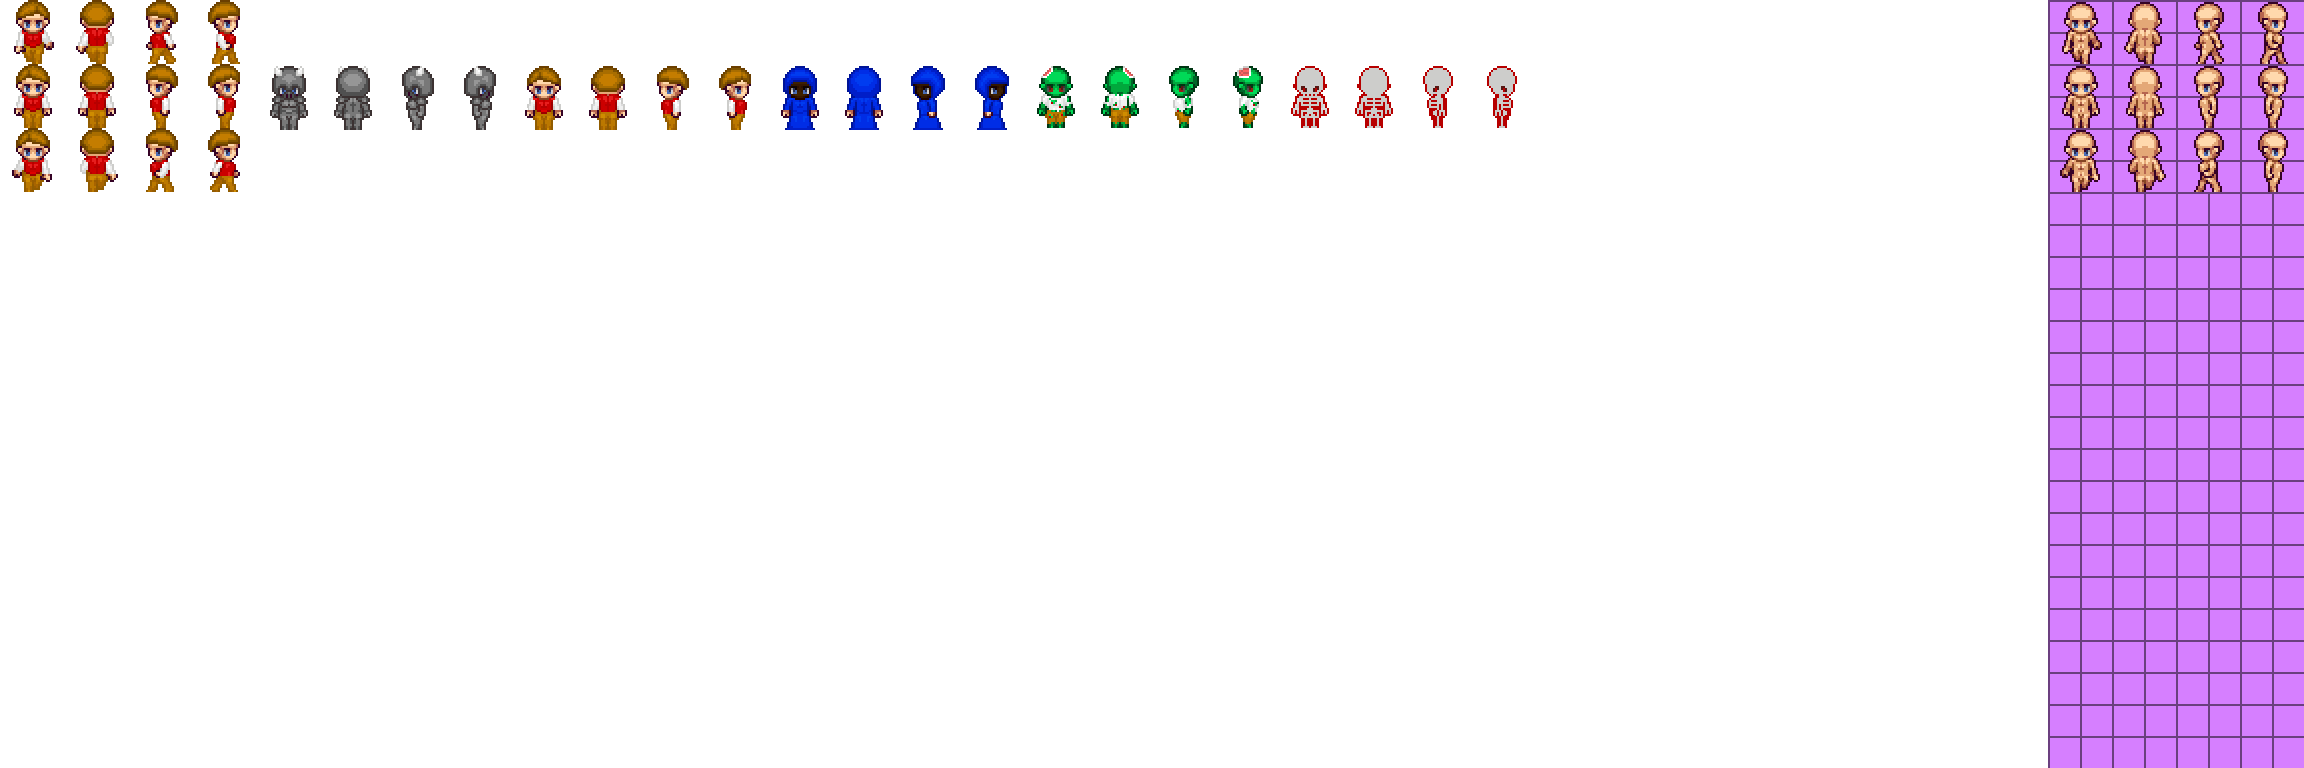
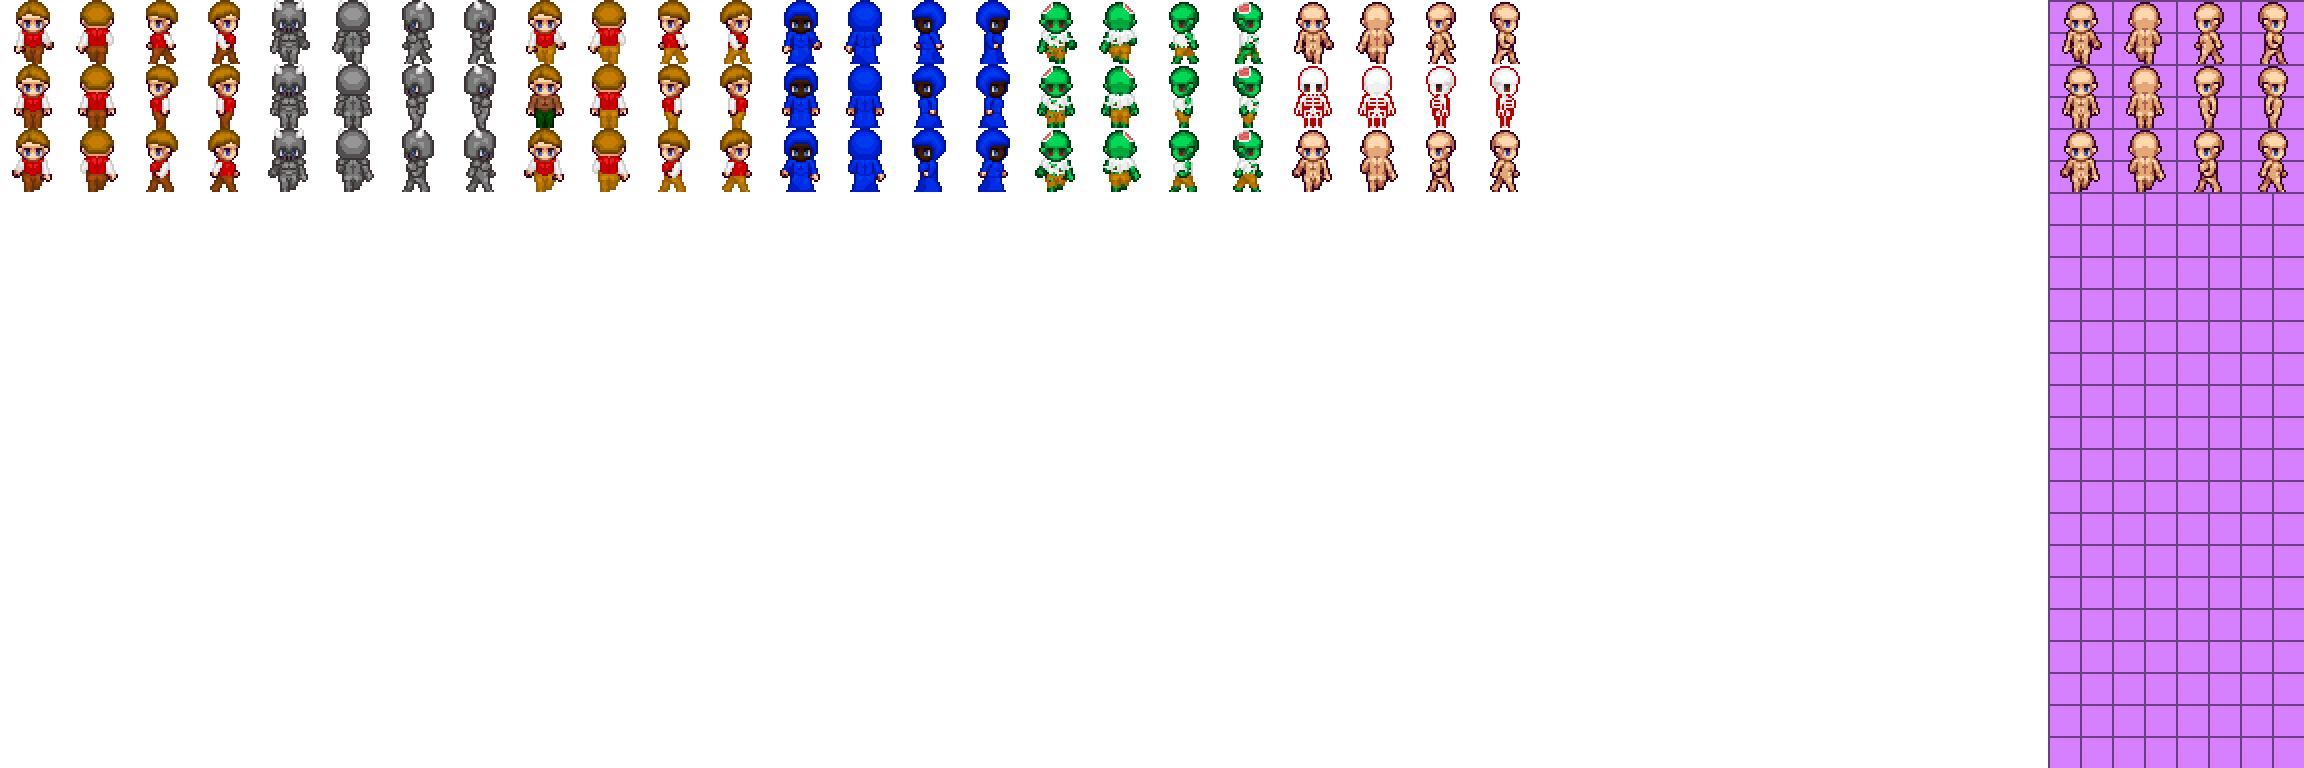
NPC walking animations working

Changed region(s): [[0.0, 0.0, 0.6562, 0.25], [0.0, 0.125, 0.0625, 0.1562], [0.9688, 0.2188, 1.0, 0.25]]

diff --git a/SDL_Setup/Physics.cpp b/SDL_Setup/Physics.cpp
@@ -314,7 +314,9 @@ void movement(Gamestate& gamestate)
 		//test for boundary collisions; only update position if no boundary collision with said update
 		double
 			nextX = gamestate.vector_entities.at(i)->posX + gamestate.vector_entities.at(i)->velX,
-			nextY = gamestate.vector_entities.at(i)->posY + gamestate.vector_entities.at(i)->velY;
+			nextY = gamestate.vector_entities.at(i)->posY + gamestate.vector_entities.at(i)->velY,
+			movedX = 0,
+			movedY = 0;
 
 		vector<bool> bad = goodNextPosition(gamestate, nextX, nextY, gamestate.vector_entities.at(i));
 		enum { x, y };
@@ -322,10 +324,12 @@ void movement(Gamestate& gamestate)
 		//update positions
 		if( !bad.at(x) )
 		{
+			movedX = nextX - gamestate.vector_entities.at(i)->posX;
 			gamestate.vector_entities.at(i)->posX = nextX;
 		}
 		if( !bad.at(y) )
 		{
+			movedY = nextY - gamestate.vector_entities.at(i)->posY;
 			gamestate.vector_entities.at(i)->posY = nextY;
 		}
 
@@ -336,6 +340,27 @@ void movement(Gamestate& gamestate)
 		gamestate.vector_entities.at(i)->healthBar_BG.y = gamestate.vector_entities.at(i)->posY + HEALTHBAR_ENTITY_OFFSET_Y;
 		gamestate.vector_entities.at(i)->healthBar_border.x = gamestate.vector_entities.at(i)->posX + HEALTHBAR_BORDER_ENTITY_OFFSET_X;
 		gamestate.vector_entities.at(i)->healthBar_border.y = gamestate.vector_entities.at(i)->posY + HEALTHBAR_BORDER_ENTITY_OFFSET_Y;
+
+		if(i != 0)
+		{
+			//update walking variables for non-player entities based on change in position
+			if(sqrt(pow(movedX, 2) + pow(movedY, 2)) > .1) //if a non player entity has moved
+			{
+				//start walking if it's the beginning of walking, not a continuation
+				if(!gamestate.vector_entities.at(i)->walking)
+				{
+					gamestate.vector_entities.at(i)->walking = true;
+					gamestate.vector_entities.at(i)->toWalk = gamestate.vector_entities.at(i)->walkSpeed;
+					gamestate.vector_entities.at(i)->walkUpNext = true;
+					gamestate.vector_entities.at(i)->spriteOffsetY = ENTITY_CLIP_H;
+				}
+			}
+			else //else stop walking if not moving
+			{
+				gamestate.vector_entities.at(i)->walking = false;
+				gamestate.vector_entities.at(i)->spriteOffsetY = 0;
+			}
+		}
 	}
 }
 
@@ -430,13 +455,22 @@ void walkingAnimations(Gamestate& gamestate)
 		{
 			if(gamestate.vector_entities.at(i)->toWalk == 0)
 			{
-				if(gamestate.vector_entities.at(i)->spriteOffsetY < 0)
+				if(gamestate.vector_entities.at(i)->spriteOffsetY != 0)
 				{
-					gamestate.vector_entities.at(i)->spriteOffsetY = ENTITY_CLIP_H;
+					gamestate.vector_entities.at(i)->spriteOffsetY = 0;
 				}
 				else
 				{
-					gamestate.vector_entities.at(i)->spriteOffsetY = -ENTITY_CLIP_H;
+					if(gamestate.vector_entities.at(i)->walkUpNext)
+					{
+						gamestate.vector_entities.at(i)->walkUpNext = false;
+						gamestate.vector_entities.at(i)->spriteOffsetY = ENTITY_CLIP_H;
+					}
+					else
+					{
+						gamestate.vector_entities.at(i)->walkUpNext = true;
+						gamestate.vector_entities.at(i)->spriteOffsetY = -ENTITY_CLIP_H;
+					}
 				}
 
 				gamestate.vector_entities.at(i)->toWalk = gamestate.vector_entities.at(i)->walkSpeed;

diff --git a/SDL_Setup/main.cpp b/SDL_Setup/main.cpp
@@ -66,34 +66,41 @@ int main( int argc, char* args[] )
 	//***********************************************************************************
     while( !gui.quit )
     {
-		//reset the frame timer to 0. Used to regulate minimum time per frame
-		gui.fpsTimer.start();
-
-		//call the eventHandler (send quit as a reference)
-		gui.eventHandler(); 
-		
-		//switch through the gamestates for the game engine
-		switch(gamestate.currentState)
+		try
 		{
-		case STATES_GAMEPLAY:
-			//do some physics
-			Physics::doPhysics(gamestate, hud, gui);
-			break;
-		
-		case STATES_DEATH_MENU:
-			MenuEngine::engine(STATES_DEATH_MENU, gamestate);
-			break;
+			//reset the frame timer to 0. Used to regulate minimum time per frame
+			gui.fpsTimer.start();
+
+			//call the eventHandler (send quit as a reference)
+			gui.eventHandler();
+
+			//switch through the gamestates for the game engine
+			switch(gamestate.currentState)
+			{
+			case STATES_GAMEPLAY:
+				//do some physics
+				Physics::doPhysics(gamestate, hud, gui);
+				break;
+
+			case STATES_DEATH_MENU:
+				MenuEngine::engine(STATES_DEATH_MENU, gamestate);
+				break;
+			}
+
+			//apply all of the surfaces to surface_screen
+			gui.displayAll();
+
+			//Update the screen by flipping surface_screen
+			if(!gui.flipScreen())
+				return 1;
+
+			//regulate the frame rate, and update the currentFrameRate (needs to stay at end of game loop)
+			gui.frameRate();
 		}
-
-		//apply all of the surfaces to surface_screen
-		gui.displayAll();
-
-		//Update the screen by flipping surface_screen
-		if( !gui.flipScreen() )
-			return 1;
-
-		//regulate the frame rate, and update the currentFrameRate (needs to stay at end of game loop)
-		gui.frameRate();
+		//catch(std::exception& e)
+		catch(...)
+		{
+		}
     }
     //***********************************************************************************
 	//*********** End of the game loop **************************************************

diff --git a/SDL_Setup/Player.cpp b/SDL_Setup/Player.cpp
@@ -18,8 +18,7 @@ Player::Player(int in_clipX, int in_clipY, double in_posX, double in_posY, doubl
 	this->forceX = 0;
 	this->forceY = 0;
 	this->velX = 0;
-	this->velY = 0;
-
+	this->velY = 0; 
 	this->mass = MASS_PLAYER;
 	this->maxVelX = 3;
 	this->maxVelY = 3;
@@ -78,6 +77,7 @@ void Player::pressKey(int toPress)
 	{
 		this->walking = true;
 		this->toWalk = this->walkSpeed;
+		this->walkUpNext = true;
 		this->spriteOffsetY = ENTITY_CLIP_H;
 	}
 }

diff --git a/SDL_Setup/Entity.h b/SDL_Setup/Entity.h
@@ -36,7 +36,9 @@ public:
 		toWalk = 0, //frames left to walk before the sprite changes for walking animation
 		spriteOffsetY = 0; //offset of the sprite for walking
 
-	bool walking = false;
+	bool 
+		walking = false, 
+		walkUpNext = true;
 
 	SDL_Rect rect[4]; //to hold the clip(s) (of the textures)
 
